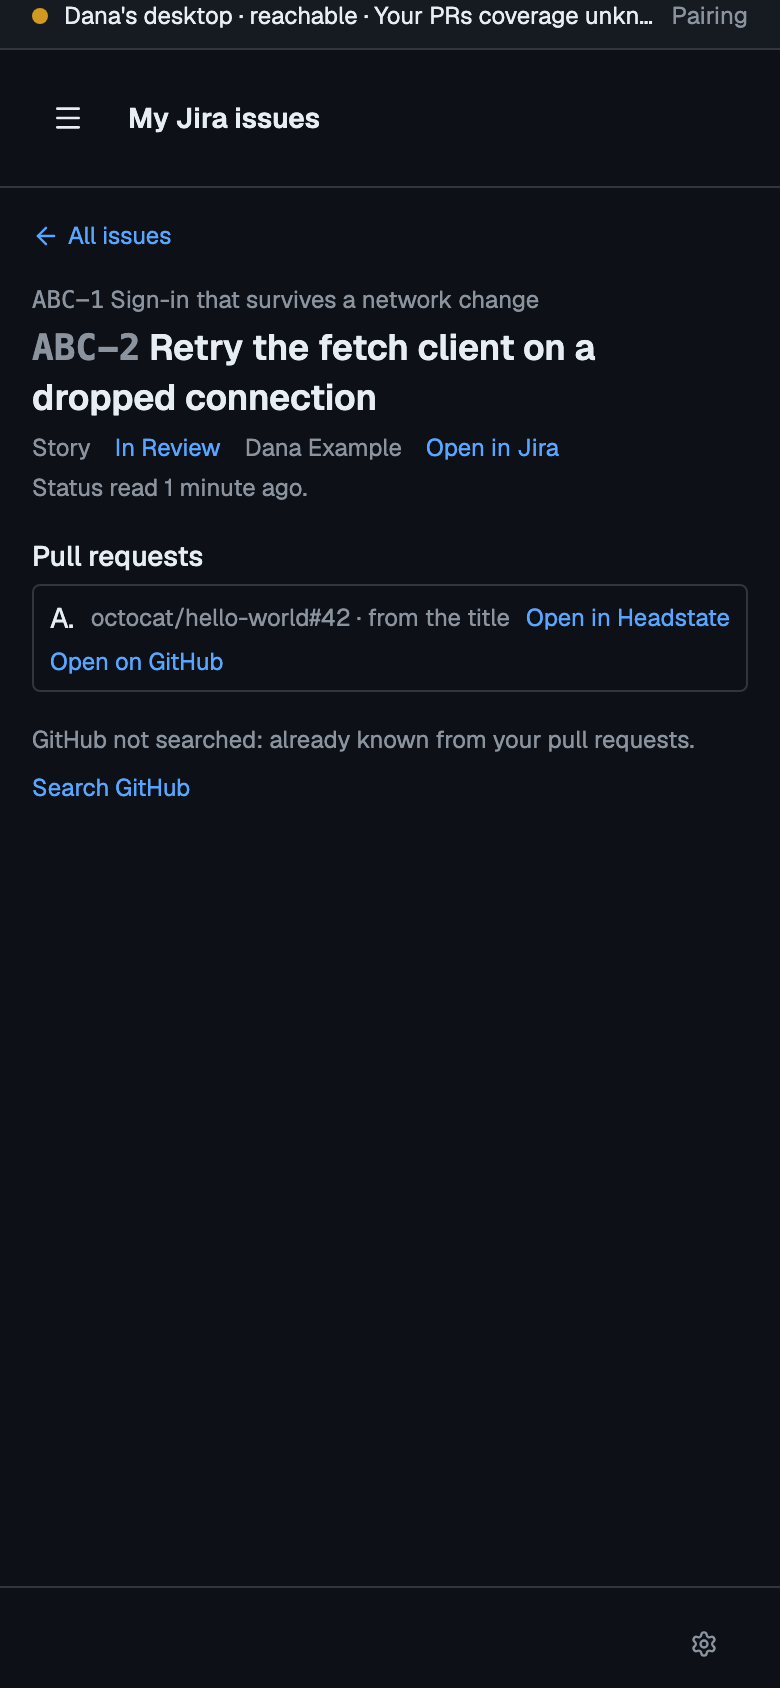
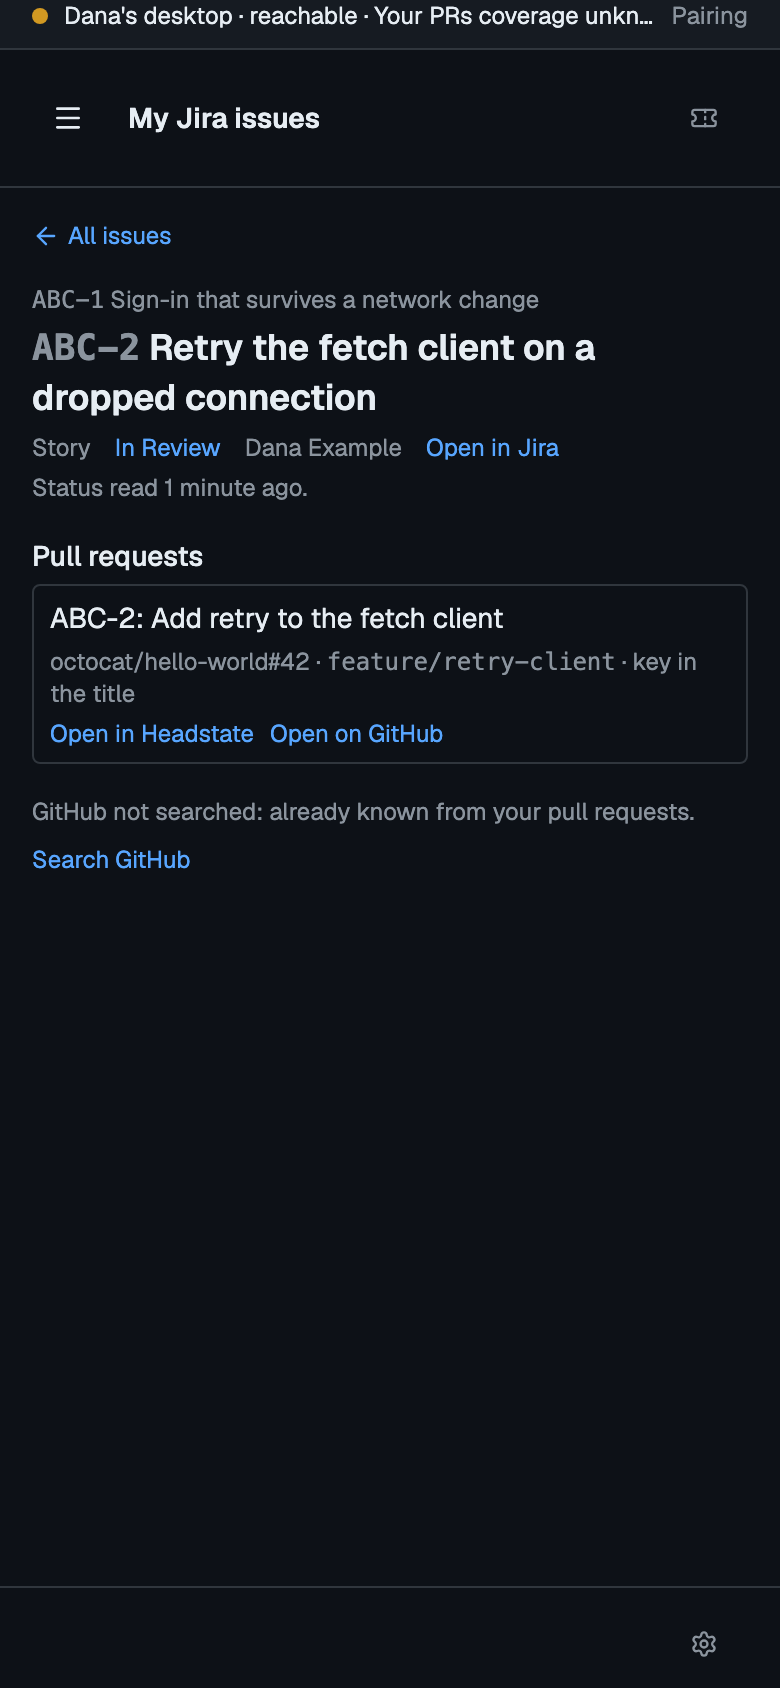
Answer jira_find with #2067's gitlab field in the phone harness, and reshoot
After the rebase onto Go to ticket the harness's KeyLookup lacked
gitlab, which the contract check rejected; the screenshots now include
the header's Go to ticket button.

Changed region(s): [[0.0308, 0.3389, 0.8923, 0.5237], [0.8, 0.3389, 0.9231, 0.4005], [0.8923, 0.0616, 0.9231, 0.0924]]

diff --git a/src/harness/jiraMobile.tsx b/src/harness/jiraMobile.tsx
@@ -152,7 +152,7 @@ const DESKTOP: Record<string, (args: Record<string, unknown>) => unknown> = {
   jira_issues: (a) => batch(a.keys as string[]),
   jira_find: (a): KeyLookup => {
     const key = a.key as string;
-    return { key, links: LINKS.filter((l) => l.key === key), search: { state: "not_asked", reason: "already known from your pull requests" } };
+    return { key, links: LINKS.filter((l) => l.key === key), search: { state: "not_asked", reason: "already known from your pull requests" }, gitlab: null };
   },
 };
 
